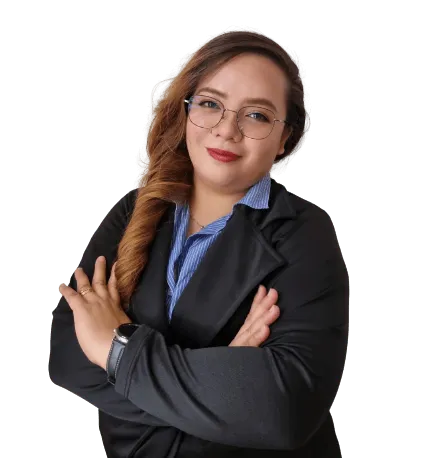
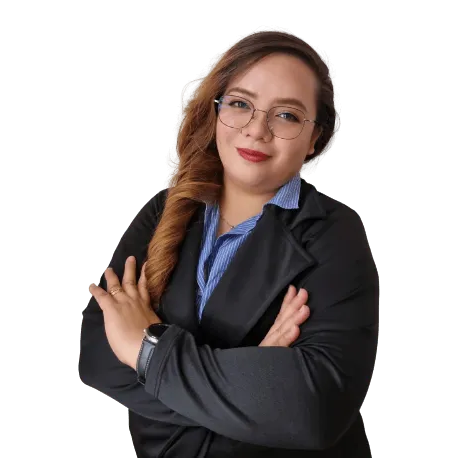
Adjusted some layout

Changed region(s): [[0.0901, 0.0611, 0.8406, 1.0]]

diff --git a/index.css b/index.css
@@ -5,20 +5,19 @@
 }
 
 .btn-custom {
-	background-color: #e74c3c !important;
-	border-color: #e74c3c !important;
+	background-color: #343a40 !important;
+	border-color: #343a40 !important;
 	color: #fefefe !important;
     text-transform: uppercase !important;
     
 }
 .btn-custom:hover {
 	background-color: transparent !important;
-	border-color: #e74c3c !important;
-	color: #e74c3c !important;
+	border-color: #343a40 !important;
+	color: #343a40 !important;
 }
 
 h1, h2 {
-	font-family: "Oswald", sans-serif;
 	color: #333333;
 }
 
@@ -37,8 +36,9 @@ nav #logo {
 nav a {
 	color: #333333 !important;
 }
-nav a:hover, nav a:active {
-	color: #e74c3c !important;
+.navbar-nav .nav-link.active {
+	color: #ffffff !important;
+	background: #212121 !important;
 }
 
 /* Header Section */
@@ -59,7 +59,7 @@ nav a:hover, nav a:active {
 
 /* About Me Section */
 #about {
-	background-color: #e74c3c !important;
+	background-color: #343a40 !important;
 }
 #about * {
 	color: #efefef !important;
@@ -67,7 +67,7 @@ nav a:hover, nav a:active {
 
 /* Project */
 #projects {
-	background-color: #f2f3f5 !important;
+	background-color: #e9ecef !important;
 }
 #gallery .img-thumbnail {
 	width: 300px;
@@ -84,7 +84,21 @@ nav a:hover, nav a:active {
 	border-radius: 0;
 }
 
+
+/* Tools */
+#tools .card  {
+	transition: opacity 0.6s ease;
+	width: 144px;
+	border: none;
+}
+#tools .container:hover .card:not(:hover) {   
+	opacity: 0.4;
+}  
+
 /* Contact */
+#contacts {
+	background-color: #e9ecef !important;
+}
 
 iframe {
     height: 50vh;
@@ -92,47 +106,7 @@ iframe {
     border: 0;
 }
 
-/* Tools */
-#tools .card  {
-	transition: opacity 0.6s ease;
-	width: 144px;
-}
-#tools .container:hover .card:not(:hover) {
-	opacity: 0.4;
-}  
-@keyframes vibrate-fast {
-		
-	0% {
-		transform:translate(0);
-	}
-	10% {
-		transform:translate(-2px,-2px);
-	}
-	20% {
-		transform:translate(2px,-2px);
-	}
-	30% {
-		transform:translate(-2px,2px);
-	}
-	40% {
-		transform:translate(2px,2px);
-	}
-	50% {
-		transform:translate(-2px,-2px;
-	}
-	60% {
-		transform:translate(2px,-2px);
-	}
-	70% {
-		transform:translate(-2px,2px);
-	}
-	80% {
-		transform:translate(-2px,-2px);
-	}
-	90% {
-		transform:translate(2px,-2px);
-	}
-	100% {
-		transform:translate(0);
-	}
+/* FOOTER */
+footer {
+	background-color: #212529 !important;
 }

diff --git a/index.html b/index.html
@@ -15,6 +15,7 @@
     <link rel="preconnect" href="https://fonts.googleapis.com">
     <link rel="preconnect" href="https://fonts.gstatic.com" crossorigin>
     <link href="https://fonts.googleapis.com/css2?family=Castoro:ital@0;1&family=Oswald:wght@200..700&family=Poppins:ital,wght@0,100;0,200;0,300;0,400;0,500;0,600;0,700;0,800;0,900;1,100;1,200;1,300;1,400;1,500;1,600;1,700;1,800;1,900&display=swap" rel="stylesheet">
+    <link href="https://fonts.googleapis.com/css2?family=Montserrat:ital,wght@0,100..900;1,100..900&display=swap" rel="stylesheet">
 
     <!-- Animation | CSS -->
     <link href="https://unpkg.com/aos@2.3.1/dist/aos.css" rel="stylesheet">
@@ -56,9 +57,9 @@
 
 	<!-- Header Section Start -->
 	<div id="landing">
-		<div class="container-fluid text-center aos-init aos-animate" data-aos="zoom-in" data-aos-delay="100">
+		<div class="container text-center aos-init aos-animate" data-aos="zoom-in" data-aos-delay="100">
 			<div class="row d-flex justify-content-center align-items-end">
-				<div class="col-xl-5 col-lg-6 col-12 py-lg-4" data-aos="fade-right">
+				<div class="col-xl-8 col-lg-8 col-12 py-lg-4" data-aos="fade-right">
 					<h1 class="title mt-5">Hi, Im Jean Brinas</h1>
 					<h3 class="subtitle py-sm-2">I'm a <span>Full-Stack Developer</span></h3>
 					<a href="#contacts"><button type="button" class="btn btn-outline-danger btn-custom my-5 rounded-pill px-5">Contact Me</button></a>
@@ -68,7 +69,6 @@
 				</div>
 			</div>	
 		</div>
-		
 	</div>
 	<!-- Header Section End -->
 
@@ -100,7 +100,7 @@
 		<div class="container py-5" >
 			<div class="row">
 				<div class="col-12">
-					<h2 class="mb-4">My Works</h2>
+					<h2 class="mb-4">Portfolio</h2>
 					<hr>
 					<div class="d-lg-flex justify-content-center p-md-5">
 						
@@ -465,7 +465,7 @@
 	<!-- Contact End -->
 
 	<!-- Footer Start -->
-	<footer class="bg-dark">
+	<footer>
         <div class="container d-md-flex justify-content-md-between py-3 ">
             <div class="mb-3 mb-md-0 d-flex justify-content-center">
             	<a class="text-decoration-none" target="_blank" href="https://www.facebook.com/jeanbrinas">
